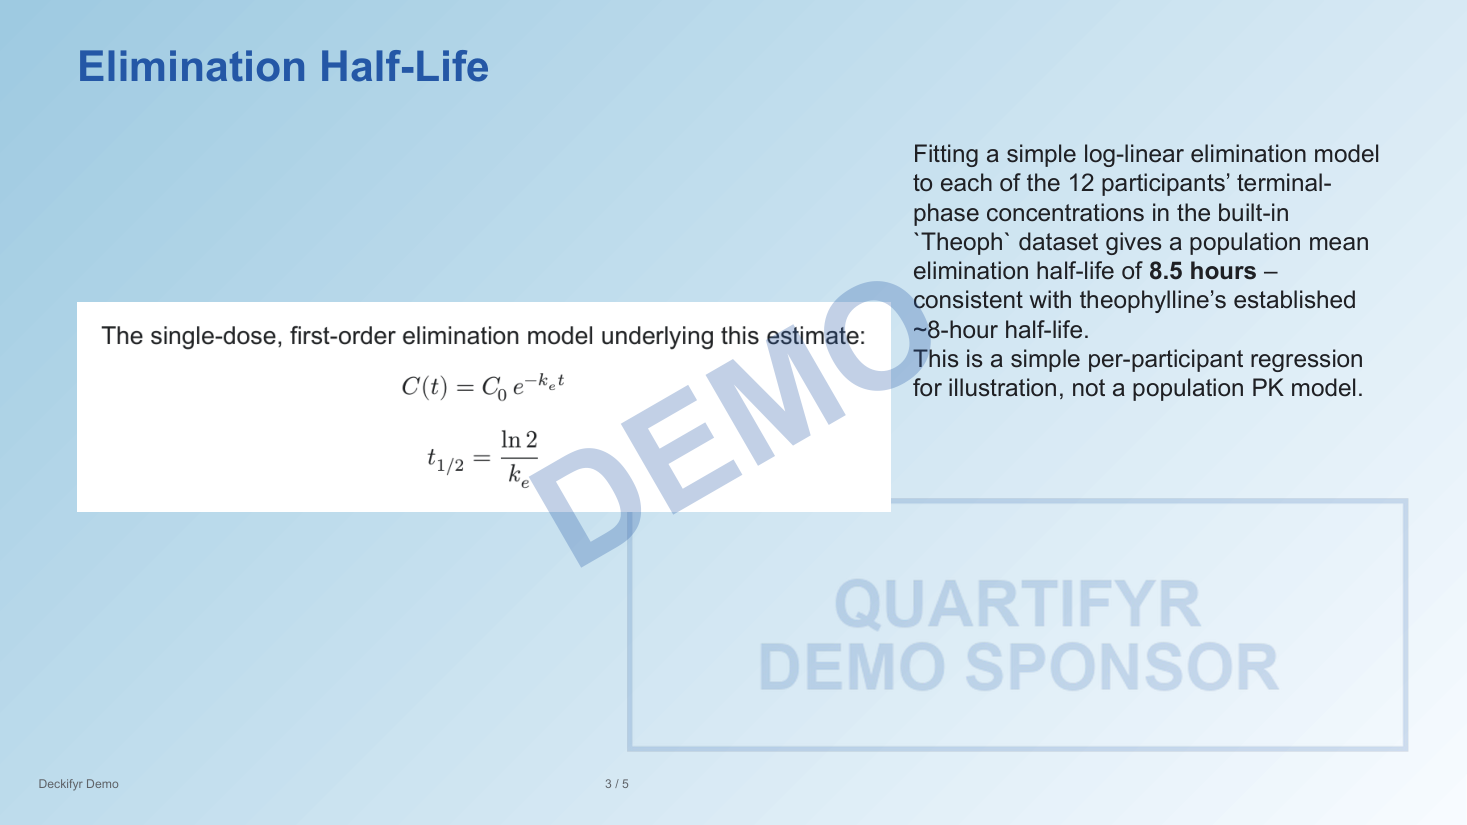
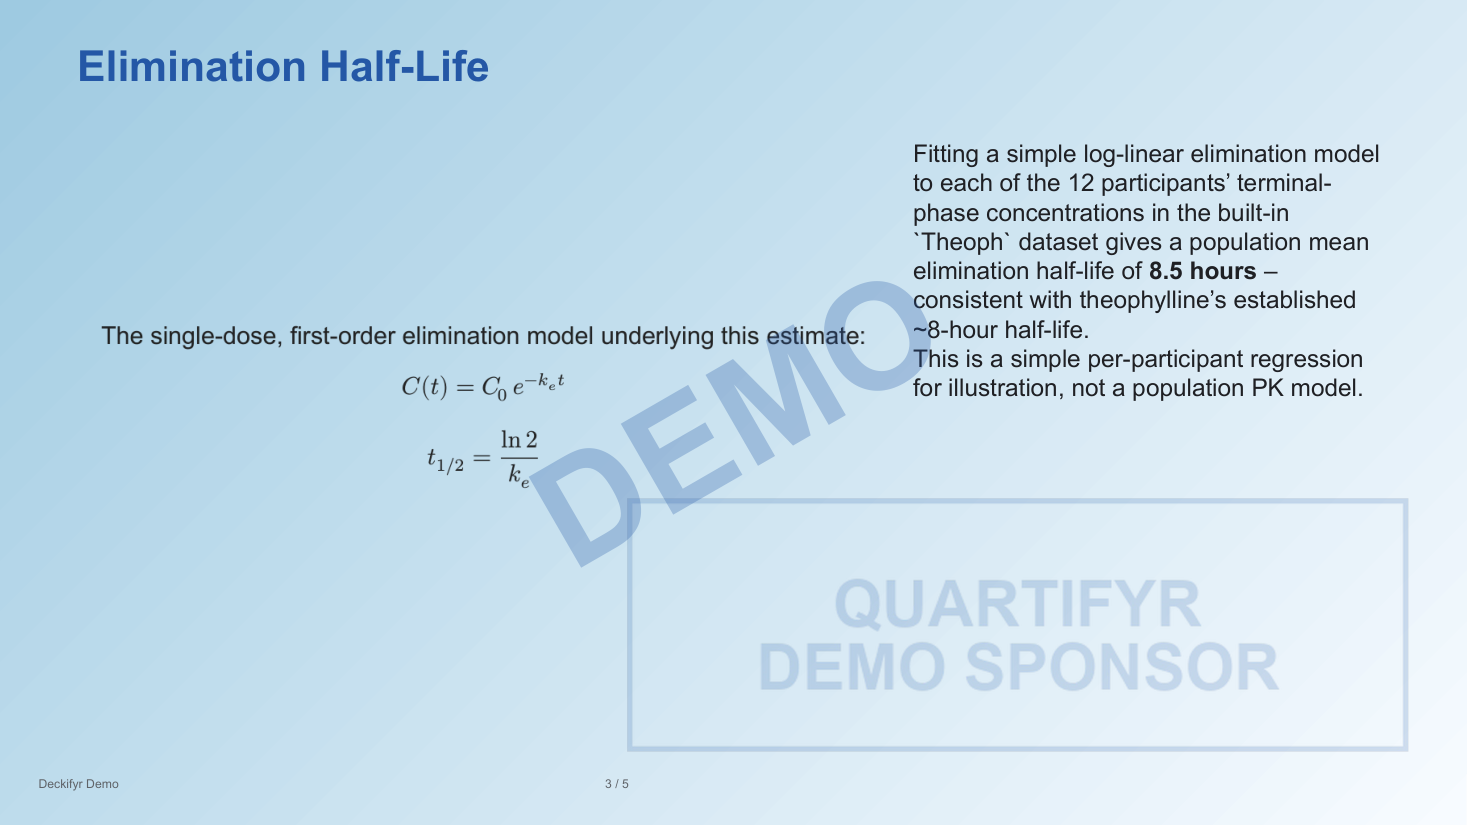
Fix release.yaml's protected-main push and stale/missing docs from #52
main's "basic" ruleset (added 2026-08-16) blocks the default
GITHUB_TOKEN from pushing the metadata-sync commit/tag directly, which
required a manual ruleset bypass to land the 0.3.0 release. release.yaml
now pushes over SSH via a deploy key (RELEASE_DEPLOY_KEY), the same
mechanism ../quartifyr and ../xpose.xtras already use for their own
protected main branches -- the deploy key is registered on the repo and
added to the ruleset's bypass_actors list (DeployKey, alongside the
existing RepositoryRole/Integration bypasses, not replacing them).

Also addresses the concrete doc staleness issue #52 raised:
- python-engine.Rmd's "Not implemented yet" section (preview/inspect/
  serve) is gone -- all three are real, replaced with real usage docs
  for preview/inspect/get/set/slide/skills/serve, none of which were
  documented here before. The Pass 1/2 mermaid diagram and the
  "deckifyr.renderers/deckifyr.web are intentionally empty" paragraph
  (also stale) now reflect what those packages actually do.
- web-app.Rmd gets a callout at the top for the required `web` extra
  (previously only mentioned in deck_serve()'s own Rd), and the
  LibreOffice install-link mention now parenthetically names the link
  (LibreOffice's download page).
- CLAUDE.md's own status table still said CLI `serve` raises
  NotImplementedFeatureError, contradicting its own later "deckifyr.web
  is real" section -- fixed, along with the "early scaffold" heading
  above it.
[…]

Changed region(s): [[0.0307, 0.3636, 0.6135, 0.6364]]

diff --git a/CLAUDE.md b/CLAUDE.md
@@ -23,7 +23,7 @@ plan). Everything below assumes you've skimmed it; this file covers
 what's actually built versus still spec, and the non-obvious things
 learned while building the scaffold.
 
-### Current status: early scaffold, not the compiler yet
+### Current status: every piece below is real, not a scaffold
 
 | Piece | Status |
 | --- | --- |
@@ -32,7 +32,7 @@ learned while building the scaffold.
 | `deckifyr.schema.{design,layouts,presentation}` (pydantic models, spec §7.4-7.7) | Real, tested |
 | `deckifyr.plan` (Pass 1: plan and shell expansion, spec §6) | Real, tested -- `text`/`markdown`/`image`/`shape`/`group`/`table`/`reportifyr`/`quarto` elements, plus document furniture (spec §7.8) expansion and per-slide speaker notes |
 | CLI `init`/`validate`/`build`/`preview`/`inspect`/`schema`/`skills` (spec §11.1) | Real, tested |
-| CLI `serve` | Argument parsing is real; raises `NotImplementedFeatureError` (exit code 4) -- Phase 3 |
+| CLI `serve` | Real -- runs the FastAPI backend + React/Konva web editor, requires the optional `web` extra |
 | `deckifyr.editor` + CLI `get`/`set`/`slide` (config/slide editing, spec §11.1/§11.2, issue #10) | Real, tested |
 | `deckifyr.renderers.preview` (slide preview rendering, spec §12/§18 Phase 3) | Real, tested against a live `soffice`/PyMuPDF install -- see this file's own "Preview rendering" section below |
 | R facade (`R/*.R`) | Real, tested against a live pyro install |
